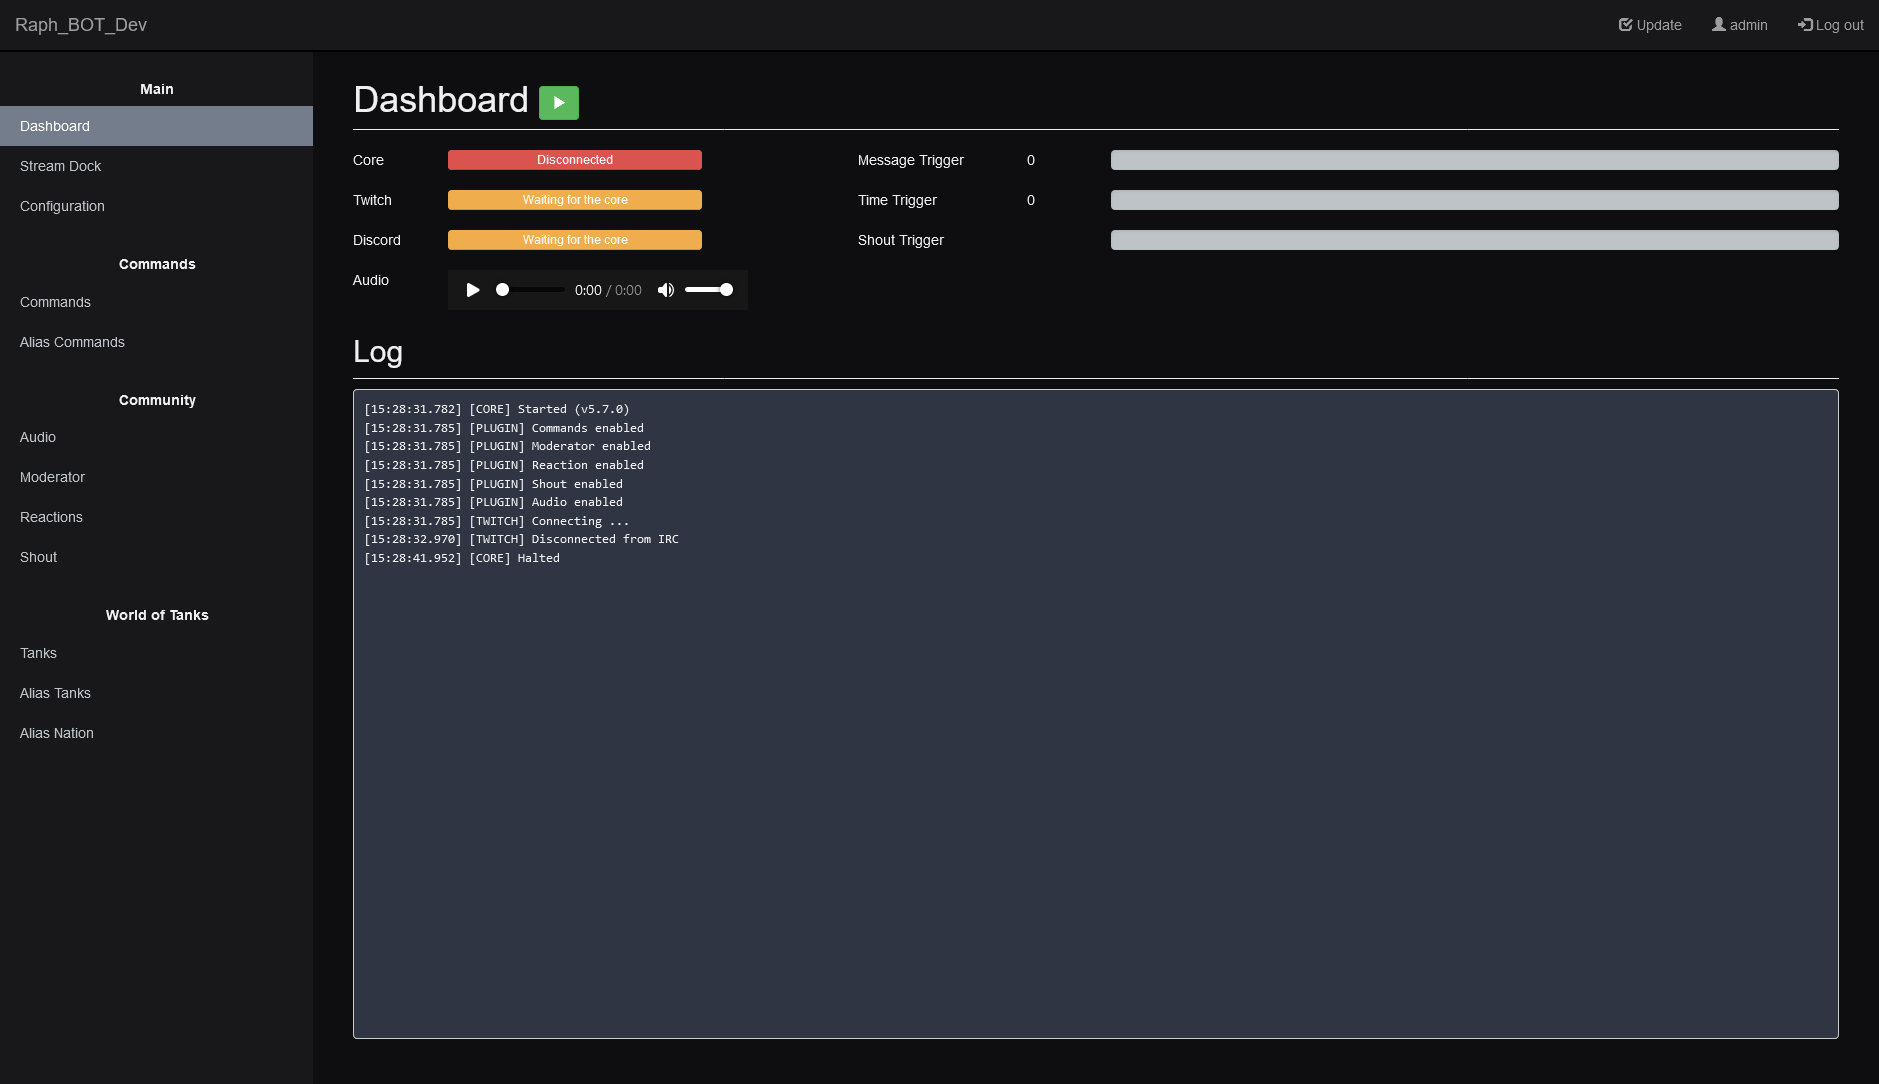
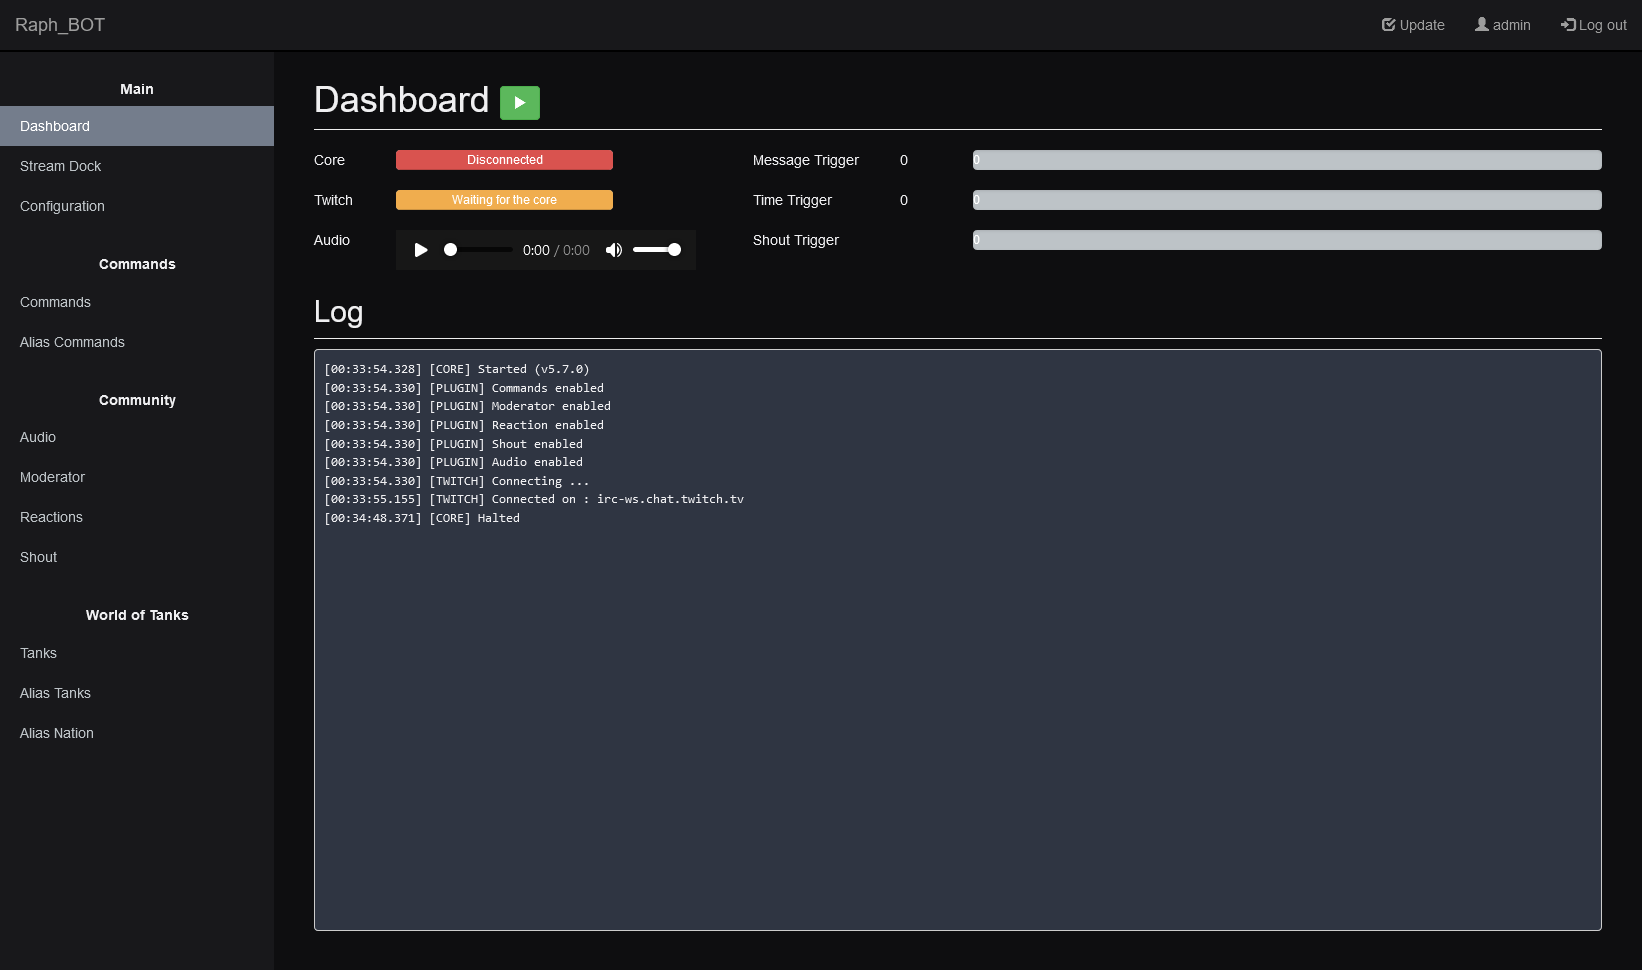
[feat] Retrait intégartion discord

diff --git a/www/src/js/socket-handler.js b/www/src/js/socket-handler.js
@@ -25,30 +25,6 @@ function twitch_state(state) {
     }
 }
 
-function discord_state(state) {
-    // Dashboard
-    if (is_dashboard) {
-        if (state) {
-            document.getElementById('discord-statut').className = "progress-bar progress-bar-success";
-            document.getElementById('discord-statut').innerHTML = "Connected";
-        }
-        else {
-            document.getElementById('discord-statut').className = "progress-bar progress-bar-danger";
-            document.getElementById('discord-statut').innerHTML = "Disconnected";
-        }
-    }
-
-    // Dock
-    if (is_dock) {
-        if (state) {
-            document.getElementById('dock-discord-statut').className = "glyphicon glyphicon-ok ico-green";
-        }
-        else {
-            document.getElementById('dock-discord-statut').className = "glyphicon glyphicon-remove ico-red";
-        }
-    }
-}
-
 function shout(data) {
     // Dashboard
     if (is_dashboard) {
@@ -90,22 +66,6 @@ function trigger_msg(data) {
     }
 }
 
-function annonce() {
-    swal({
-        title: 'Discord announcement',
-        text: "Send announcement to discord ?",
-        type: 'warning',
-        showCancelButton: true,
-        confirmButtonColor: '#3085d6',
-        cancelButtonColor: '#d33',
-        confirmButtonText: 'Send'
-    }).then((result) => {
-        if (result.value) {
-            socket.emit('discord-notification');
-        }
-    })
-}
-
 function start_stop() {
     if (core_state) {
         swal({
@@ -145,7 +105,6 @@ socket.on('connect', function () {
     if (is_dashboard) {
         document.getElementById('core-statut').className = "progress-bar progress-bar-success";
         document.getElementById('core-statut').innerHTML = "Connected";
-        document.getElementById("btn-annonce").style.display = "inline-block";
         document.getElementById("btn-start-stop").className = "btn btn-danger";
         document.getElementById("ico-start-stop").className = "glyphicon glyphicon-stop";
         document.getElementById("btn-start-stop").disabled = false;
@@ -167,9 +126,6 @@ socket.on('disconnect', function () {
         document.getElementById('core-statut').innerHTML = "Disconnected";
         document.getElementById('twitch-statut').className = "progress-bar progress-bar-warning";
         document.getElementById('twitch-statut').innerHTML = "Waiting for the core";
-        document.getElementById('discord-statut').className = "progress-bar progress-bar-warning";
-        document.getElementById('discord-statut').innerHTML = "Waiting for the core";
-        document.getElementById("btn-annonce").style.display = "none";
         document.getElementById("btn-start-stop").className = "btn btn-success";
         document.getElementById("ico-start-stop").className = "glyphicon glyphicon-play";
     }
@@ -178,7 +134,6 @@ socket.on('disconnect', function () {
     if (is_dock) {
         document.getElementById('dock-core-statut').className = "glyphicon glyphicon-off ico-red";
         document.getElementById('dock-twitch-statut').className = "glyphicon glyphicon-hourglass ico-orange";
-        document.getElementById('dock-discord-statut').className = "glyphicon glyphicon-hourglass ico-orange";
     }
 
     core_state = false;
@@ -189,7 +144,6 @@ socket.on('update', function (json) {
     data = JSON.parse(json);
 
     twitch_state(data['twitch']);
-    discord_state(data['discord']);
     shout(data['shout']);
     trigger_time(data['trigger_time']);
     trigger_msg(data['trigger_msg']);
@@ -207,4 +161,3 @@ socket.on('play-audio', function (json) {
     data = JSON.parse(json);
     play_audio(data['file'], data['volume']);
 })
-

diff --git a/core/__tests__/test_config_load.js b/core/__tests__/test_config_load.js
@@ -16,10 +16,6 @@ describe('load config', () => {
         expect(config.config.cmd_msg_interval).toBe(null)
         expect(config.config.cmd_prefix).toBe(null)
         expect(config.config.cmd_time_interval).toBe(null)
-        expect(config.config.discord_channel_1).toBe(null)
-        expect(config.config.discord_channel_2).toBe(null)
-        expect(config.config.discord_notification).toBe(null)
-        expect(config.config.discord_token).toBe(null)
         expect(config.config.plugin_audio).toBe(null)
         expect(config.config.plugin_commands).toBe(null)
         expect(config.config.plugin_moderator).toBe(null)
@@ -41,9 +37,6 @@ describe('load config', () => {
             {id: "bot_name", value: 'toto'},
             {id: "cmd_prefix", value: '!'},
             {id: "cmd_time_interval", value: 2},
-            {id: "discord_channel_1", value: 'raphi_55'},
-            {id: "discord_channel_2", value: 'nyphew_'},
-            {id: "discord_token", value: null},
             {id: "plugin_audio", value: 1},
             {id: "plugin_commands", value: 1},
             {id: "plugin_moderator", value: 1},
@@ -62,10 +55,6 @@ describe('load config', () => {
         expect(config.config.cmd_msg_interval).toBe(null)
         expect(config.config.cmd_prefix).toBe('!')
         expect(config.config.cmd_time_interval).toBe(2)
-        expect(config.config.discord_channel_1).toBe('raphi_55')
-        expect(config.config.discord_channel_2).toBe('nyphew_')
-        expect(config.config.discord_notification).toBe(null)
-        expect(config.config.discord_token).toBe(null)
         expect(config.config.plugin_audio).toBe(1)
         expect(config.config.plugin_commands).toBe(1)
         expect(config.config.plugin_moderator).toBe(1)

diff --git a/core/socket.js b/core/socket.js
@@ -1,6 +1,5 @@
 const http = require('http')
 const fs = require('fs')
-//const discord = require('./discord.js')
 const config = require("./config").config
 
 const stream_log = fs.createWriteStream(__dirname + "/lastest.log", { flags: 'a' });
@@ -17,7 +16,6 @@ let web_client_connected = false;
 
 // GUI info
 const GUI = {
-    discord: false,
     twitch: false,
     shout: {
         current: 0,
@@ -52,10 +50,6 @@ io.sockets.on('connection', function (socket) {
         process.exit(0);
     });
 
-    socket.on('discord-notification', function () {
-        discord.send(config.discord_notification, 'annonce');
-    });
-
     socket.on('disconnect', function () {
         web_client_connected = false;
     });
@@ -65,11 +59,6 @@ io.sockets.on('connection', function (socket) {
 function GUI_update() {
     if (web_client_connected)
         web_client.emit('update', JSON.stringify(GUI));
-}
-
-function discord_state(state) {
-    GUI.discord = state;
-    GUI_update();
 }
 
 function twitch_state(state) {
@@ -113,4 +102,4 @@ function play_audio(data) {
 }
 
 
-module.exports = { init, twitch_state, discord_state, shout_update, time_trigger_update, msg_trigger_update, log, play_audio }
+module.exports = { init, twitch_state, shout_update, time_trigger_update, msg_trigger_update, log, play_audio }

diff --git a/core/core.js b/core/core.js
@@ -1,10 +1,7 @@
 const socket = require('./socket.js')
-
-//const discord = require('./discord.js')
 const twitch = require('./twitch.js')
 const config = require('./config.js')
 const commands = require("./command/commands")
-
 const moderator = require("./moderator/moderator")
 const reaction = require("./reaction/reaction")
 const shout = require("./shout/shout")
@@ -13,8 +10,6 @@ const audio = require("./audio/audio")
 const version = "v5.7.0";
 
 config.load().then(() => {
-    // discord.init(); // FIXME - discord don't work anymore
-
     socket.init(version);
 
     commands.init()

diff --git a/core/config.js b/core/config.js
@@ -5,10 +5,6 @@ const config = {
     cmd_msg_interval: null,
     cmd_prefix: null,
     cmd_time_interval: null,
-    discord_channel_1: null,
-    discord_channel_2: null,
-    discord_notification: null,
-    discord_token: null,
     plugin_audio: null,
     plugin_commands: null,
     plugin_moderator: null,

diff --git a/www/dashboard.php b/www/dashboard.php
@@ -24,7 +24,6 @@ $lastestlog = shell_exec('cat ' . dirname(__FILE__) . "/../core/" . 'lastest.log
     <div class="col-sm-9 col-sm-offset-3 col-md-10 col-md-offset-2 main">
         <h1 class="page-header">Dashboard
             <button onclick="start_stop()" type="button" class="btn btn-success" id="btn-start-stop"><i id="ico-start-stop" class="glyphicon glyphicon-play"></i></button>
-            <button onclick="annonce()" type="button" class="btn btn-info" id="btn-annonce" style='display:none'><i id="ico-start-stop" class="glyphicon glyphicon-send"></i></button>
         </h1>
 
         <div class="row">
@@ -47,18 +46,6 @@ $lastestlog = shell_exec('cat ' . dirname(__FILE__) . "/../core/" . 'lastest.log
                     <div class="col-sm-9">
                         <div class="progress">
                             <div class="progress-bar progress-bar-warning" role="progressbar" style="width:100%" id="twitch-statut">
-                                <span>Waiting for the core</span>
-                            </div>
-                        </div>
-                    </div>
-                </div>
-
-                <!-- Discord Connexion -->
-                <div class="row">
-                    <div class="col-sm-3">Discord</div>
-                    <div class="col-sm-9">
-                        <div class="progress">
-                            <div class="progress-bar progress-bar-warning" role="progressbar" style="width:100%" id="discord-statut">
                                 <span>Waiting for the core</span>
                             </div>
                         </div>

diff --git a/www/dock.php b/www/dock.php
@@ -23,10 +23,6 @@ $lastestlog = shell_exec('cat ' . dirname(__FILE__) . "/../core/" . 'lastest.log
                 <td><i class='glyphicon glyphicon-hourglass ico-orange' id='dock-twitch-statut'></i></td>
             </tr>
             <tr>
-                <th>Discord</th>
-                <td><i class='glyphicon glyphicon-hourglass ico-orange' id='dock-discord-statut'></i></td>
-            </tr>
-            <tr>
                 <th>Message</th>
                 <td><span id="dock-msg-text">0 / 0</span></td>
             </tr>

diff --git a/readme.MD b/readme.MD
@@ -15,7 +15,6 @@ Linux package :
 
 Node module required (and tested): 
 - console-stamp@3.0.3
-- discord.js@13.5.0
 - mysql.js@1.0.2
 - socket.io@2.4.1
 - tmi.js@1.8.5
